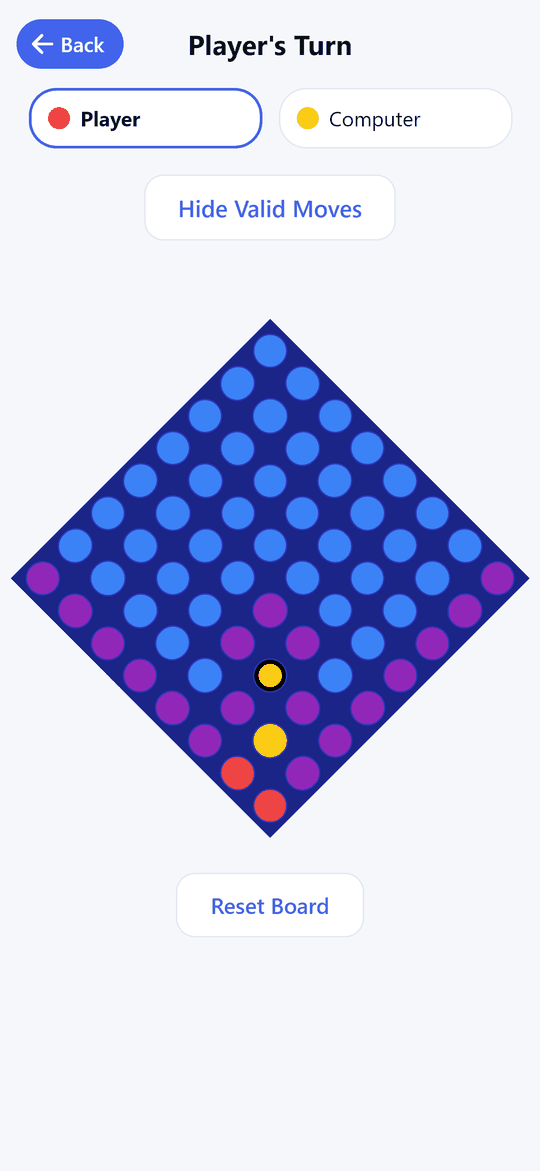
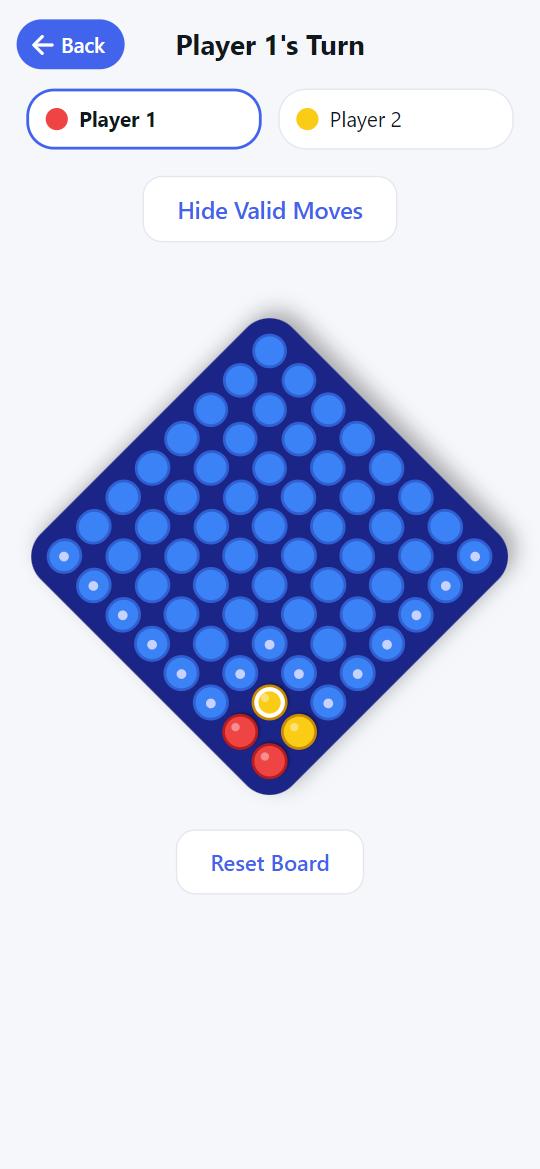
Polish the game board: fix layout, rounded plate, raised pieces, cleaner markers (#31)
The rotated board now sits in a layout box the size of its diamond footprint, so the Reset button and timer no longer overlap it. Rounded plate with shadow, pieces with a raised look, a soft dot for valid moves, a white ring for the selected/last move and a white win line. README screenshots refreshed.

diff --git a/features/game/components/GameBoard.tsx b/features/game/components/GameBoard.tsx
@@ -1,4 +1,3 @@
-import { ThemedView } from "@/components/ThemedView";
 import { useThemeColor } from "@/hooks/useThemeColor";
 import React from "react";
 import { StyleSheet, View, TouchableOpacity, Dimensions } from "react-native";
@@ -20,7 +19,16 @@ interface GameBoardProps {
     timeExpired: (() => Promise<void>) | null;
 }
 
-export function GameBoard({ 
+const GRID = 8;
+const { width } = Dimensions.get("window");
+// The grid is a square rotated 45 degrees, so its on-screen footprint is the side times root 2.
+// Size the square so that footprint fits the screen with a margin.
+const BOARD_SIDE = Math.min(width, 520) * 0.66;
+const FOOTPRINT = BOARD_SIDE * Math.SQRT2;
+const PADDING = BOARD_SIDE * 0.035;
+const PITCH = (BOARD_SIDE - PADDING * 2) / GRID;
+
+export function GameBoard({
     gameArray,
     selectedMove,
     lastMove,
@@ -31,115 +39,147 @@ export function GameBoard({
     timeExpired
 }: GameBoardProps) {
     const textColor = useThemeColor({}, 'text');
-    const boardColors = Colors.board
+    const board = Colors.board;
+
+    const cellCentre = (index: number) => PADDING + (index + 0.5) * PITCH;
 
     return (
-        <ThemedView style={styles.boardContainer}>
-            <ThemedView style={[styles.board, { backgroundColor: boardColors.background }]}>
-                {gameArray.map((row, rowIndex) => (
-                    <ThemedView key={rowIndex} style={styles.row}>
-                        {row.map((cell, colIndex) => (
-                            <TouchableOpacity
-                                key={colIndex}
-                                style={[
-                                    styles.cell,
-                                    { borderColor: boardColors.borderColor },
-                                    cell === 1
-                                    ? { backgroundColor: boardColors.player1 }
-                                    : cell === 2
-                                    ? { backgroundColor: boardColors.player2 }
-                                    : cell === 3
-                                    ? { backgroundColor: boardColors.valid }
-                                    : { backgroundColor: boardColors.empty },
-                                ]}
-                                onPress={() => onCellClick(rowIndex, colIndex)}
-                                disabled={disabled}
-                            >
-                                { ((rowIndex === selectedMove?.row && colIndex === selectedMove?.column) ||
-                                    (rowIndex === lastMove?.row && colIndex === lastMove?.column && !selectedMove)) &&
-                                    <View style={[styles.highlightedCell, { borderColor: 'black' }]}/>
-                                }
-                            </TouchableOpacity>
-                        ))}
-                    </ThemedView>
-                ))}
-
-                {winnerDetails && (
-                    <Svg height={width * 0.68} width={width * 0.68} style={styles.svgContainer}>
-                        <Line 
-                            x1={(winnerDetails.startCol + 0.5) * (width * 0.68 / 8)} 
-                            y1={(winnerDetails.startRow + 0.5) * (width * 0.68 / 8)} 
-                            x2={(winnerDetails.endCol + 0.5) * (width * 0.68 / 8)} 
-                            y2={(winnerDetails.endRow + 0.5) * (width * 0.68 / 8)} 
-                            stroke="black" 
-                            strokeWidth="3" 
-                        />
-                    </Svg>
-                )}
-            
-            </ThemedView>
+        <View style={styles.boardContainer}>
             { time &&
-                <ThemedView style={styles.time}>
-                    <ThemedText>
-                        Time:
-                    </ThemedText>
+                <View style={styles.time}>
+                    <ThemedText>Time: </ThemedText>
                     <CountdownTimer timeRemaining={time} whenZero={timeExpired} color={textColor}/>
-                </ThemedView>
+                </View>
             }
-        </ThemedView>
+            <View style={styles.footprint}>
+                <View style={styles.board}>
+                    {gameArray.map((row, rowIndex) => (
+                        <View key={rowIndex} style={styles.row}>
+                            {row.map((cell, colIndex) => {
+                                const isHighlighted =
+                                    (rowIndex === selectedMove?.row && colIndex === selectedMove?.column) ||
+                                    (rowIndex === lastMove?.row && colIndex === lastMove?.column && !selectedMove);
+                                const piece = cell === 1 ? board.player1 : cell === 2 ? board.player2 : null;
+                                const edge = cell === 1 ? board.player1Edge : cell === 2 ? board.player2Edge : board.emptyEdge;
+                                return (
+                                    <TouchableOpacity
+                                        key={colIndex}
+                                        style={[
+                                            styles.cell,
+                                            { backgroundColor: piece ?? board.empty, borderColor: edge },
+                                            piece && styles.piece,
+                                        ]}
+                                        onPress={() => onCellClick(rowIndex, colIndex)}
+                                        disabled={disabled}
+                                    >
+                                        {piece && <View style={styles.shine} />}
+                                        {cell === 3 && <View style={[styles.validDot, { backgroundColor: board.valid }]} />}
+                                        {isHighlighted && <View style={styles.highlightedCell} />}
+                                    </TouchableOpacity>
+                                );
+                            })}
+                        </View>
+                    ))}
+
+                    {winnerDetails && (
+                        <Svg height={BOARD_SIDE} width={BOARD_SIDE} style={styles.svgContainer} pointerEvents="none">
+                            <Line
+                                x1={cellCentre(winnerDetails.startCol)} y1={cellCentre(winnerDetails.startRow)}
+                                x2={cellCentre(winnerDetails.endCol)} y2={cellCentre(winnerDetails.endRow)}
+                                stroke="white" strokeWidth={PITCH * 0.16} strokeLinecap="round"
+                            />
+                        </Svg>
+                    )}
+                </View>
+            </View>
+        </View>
     );
 }
 
-const { width } = Dimensions.get("window");
-
 const styles = StyleSheet.create({
     boardContainer: {
-        marginVertical: width * 0.2,
+        alignItems: 'center',
+        marginVertical: 12,
+    },
+
+    time: {
+        flexDirection: 'row',
+        alignItems: 'center',
+        marginBottom: 8,
+    },
+
+    // Layout box for the rotated board, so surrounding views are laid out around the diamond.
+    footprint: {
+        width: FOOTPRINT,
+        height: FOOTPRINT,
+        alignItems: 'center',
+        justifyContent: 'center',
     },
 
     board: {
-        flexDirection: "column",
-        alignItems: "center",
+        width: BOARD_SIDE,
+        height: BOARD_SIDE,
+        padding: PADDING,
+        borderRadius: BOARD_SIDE * 0.09,
+        backgroundColor: Colors.board.background,
         transform: [{ rotate: "-135deg" }],
-        width: width * 0.68,
-        aspectRatio: 1,
+        shadowColor: '#000',
+        shadowOffset: { width: 0, height: 8 },
+        shadowOpacity: 0.3,
+        shadowRadius: 14,
+        elevation: 8,
     },
 
     row: {
-        width: '100%',
+        flex: 1,
         flexDirection: "row",
-        backgroundColor: 'none'
     },
 
     cell: {
         flex: 1,
-        borderRadius: '50%',
-        aspectRatio: 1,
-        margin: 4,
+        margin: PITCH * 0.07,
+        borderRadius: PITCH,
+        borderWidth: 2,
         alignItems: "center",
         justifyContent: "center",
-        borderWidth: 1.5,
+    },
+
+    piece: {
+        shadowColor: '#000',
+        shadowOffset: { width: 0, height: 2 },
+        shadowOpacity: 0.35,
+        shadowRadius: 2,
+        elevation: 3,
+    },
+
+    // Specular dot. The board is rotated -135 degrees, so local +x is screen up-left.
+    shine: {
+        position: 'absolute',
+        width: '30%',
+        height: '30%',
+        borderRadius: PITCH,
+        backgroundColor: 'rgba(255,255,255,0.4)',
+        transform: [{ translateX: PITCH * 0.16 }],
+    },
+
+    validDot: {
+        width: '32%',
+        height: '32%',
+        borderRadius: PITCH,
     },
 
     highlightedCell: {
+        position: 'absolute',
         height: '100%',
         width: '100%',
-        borderRadius: '50%',
+        borderRadius: PITCH,
         borderWidth: 3,
-    },
-
-    time: {
-        position: 'absolute',
-        top: '-20%',
-        left: '56%',
-        width: '25%',
-        zIndex: 1,
+        borderColor: 'white',
     },
 
     svgContainer: {
         position: 'absolute',
-        top: '0%',
-        left: '0%',
-        zIndex: 2,
+        top: PADDING * 0,
+        left: 0,
     }
 });

diff --git a/constants/Colors.ts b/constants/Colors.ts
@@ -37,9 +37,12 @@ export const Colors = {
     background: '#1b2487',
     player1: '#ef4444',
     player2: '#facc15',
-    valid: '#9127b8',
+    valid: '#c7d2fe',
     empty: '#3b82f6',
-    borderColor: '#2b36b8'
+    borderColor: '#2b36b8',
+    emptyEdge: '#2f5fd0',
+    player1Edge: '#b91c1c',
+    player2Edge: '#ca8a04'
   },
   onlinePlay: {
     general: '#9127b8',
